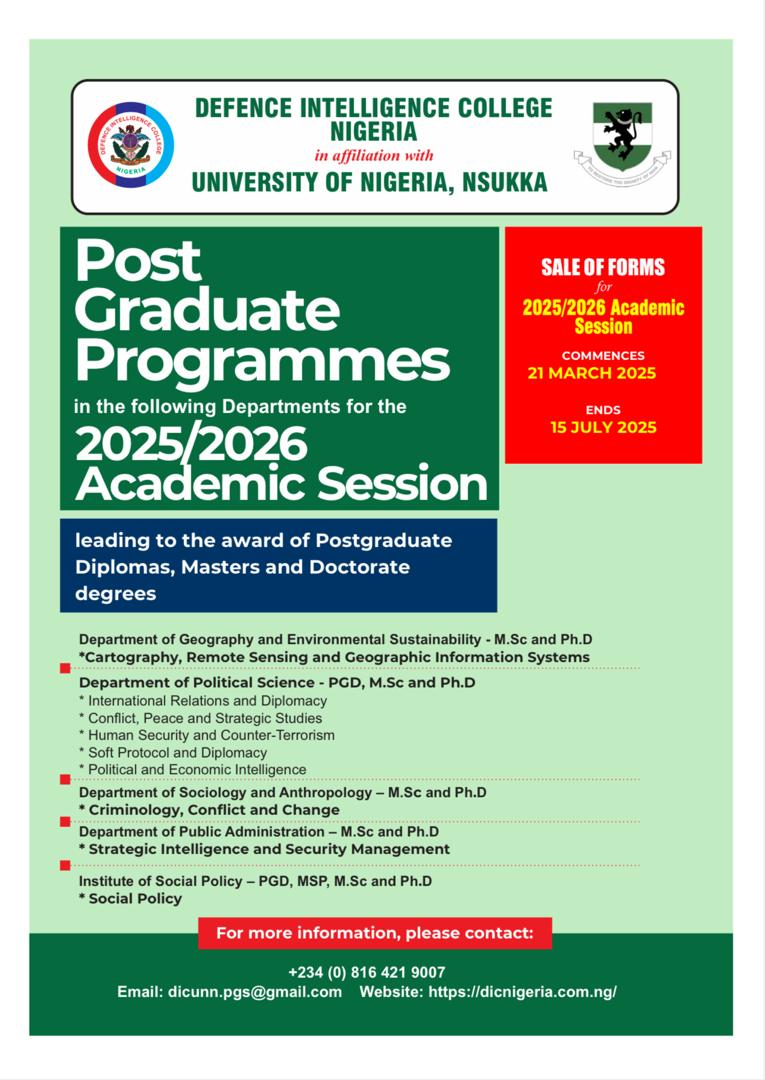
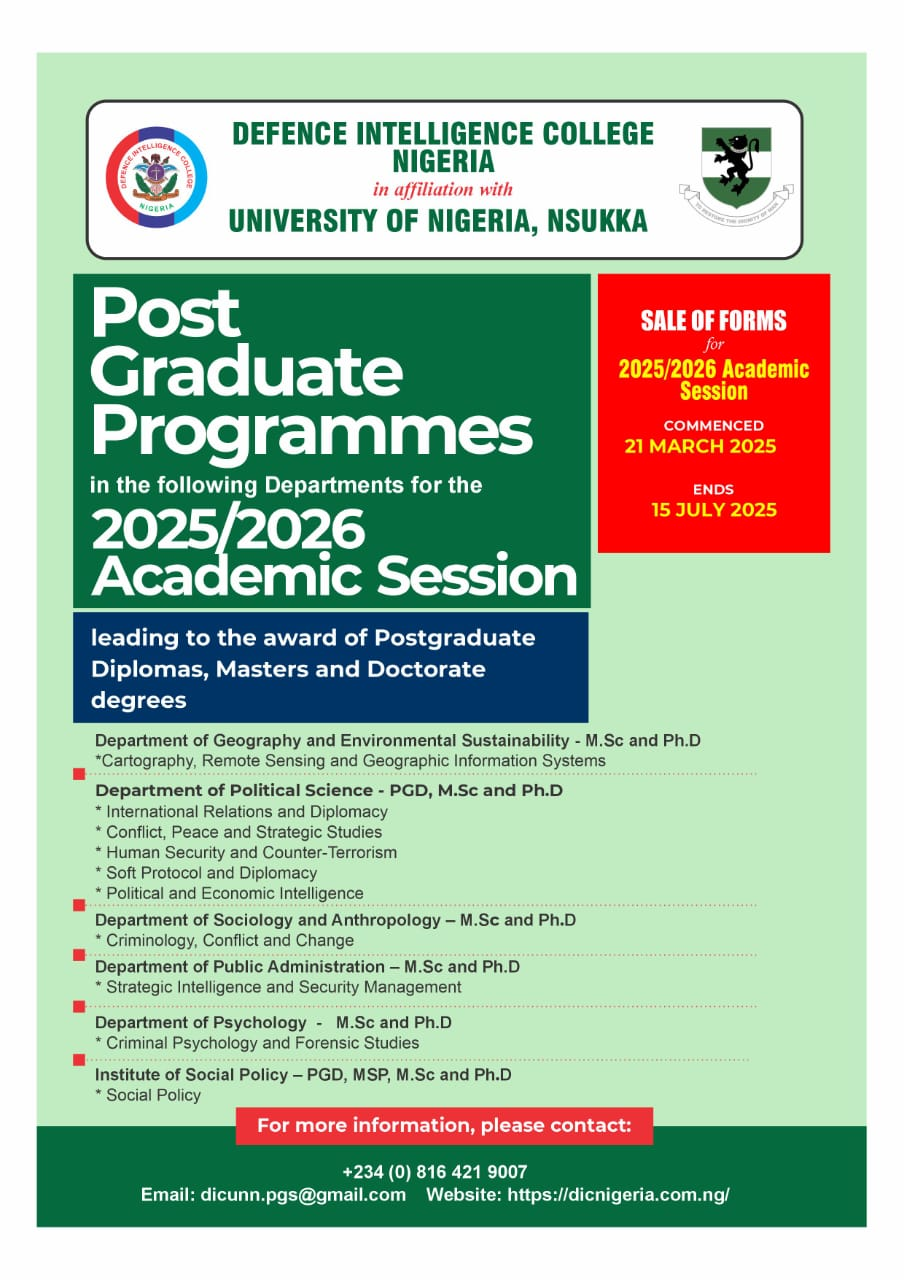
feat(pg-program): changed flier image for pg-program

Changed region(s): [[0.0301, 0.0306, 0.9621, 0.9472]]

diff --git a/dic/app/(root)/pg-program/page.tsx b/dic/app/(root)/pg-program/page.tsx
@@ -53,7 +53,7 @@ const Page = () => {
 
       <div className="container mx-auto my-12 p-2">
         <div className="flex flex-col lg:flex-row justify-center gap-10">
-          <div className="w-full lg:w-[48%] relative">
+          <div className="w-full lg:w-[50%] relative">
             <Image
               alt=""
               src={"/pg-prom.jpeg"}
